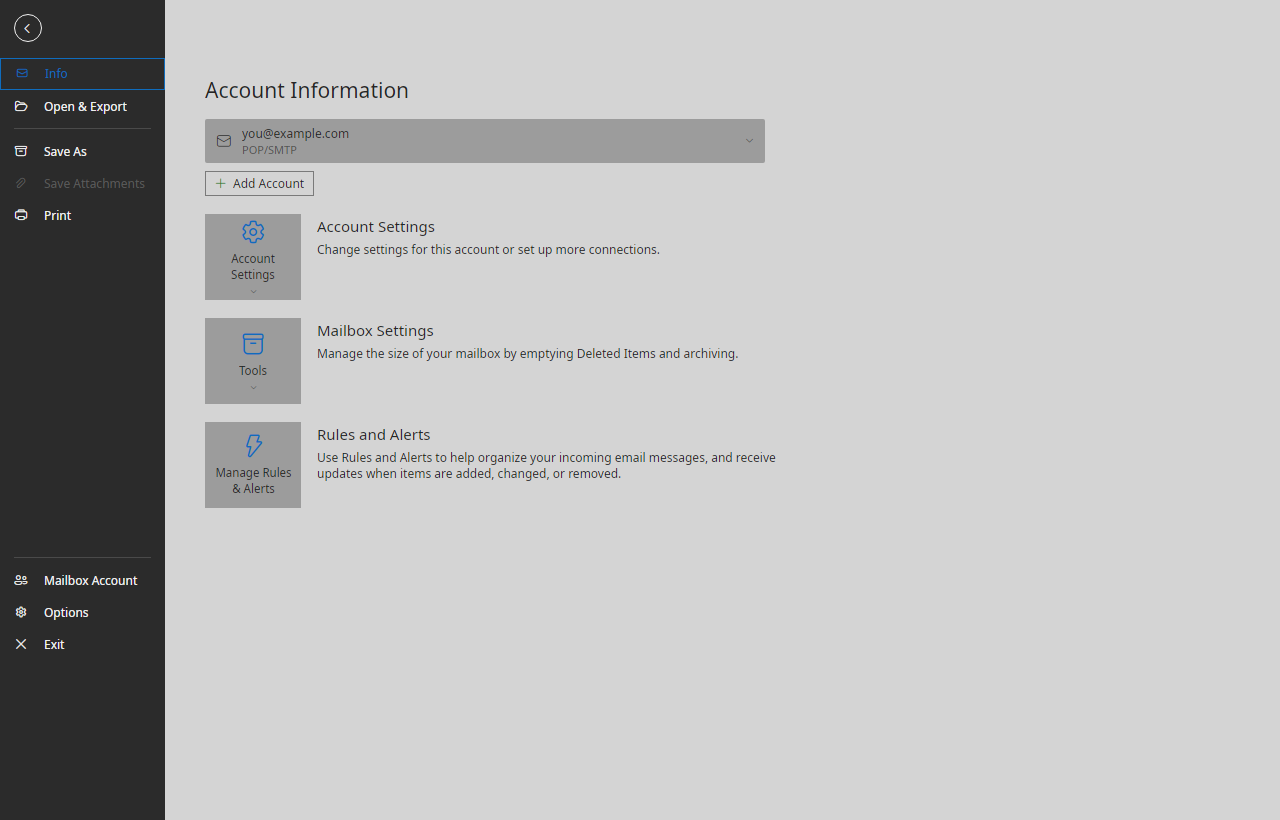
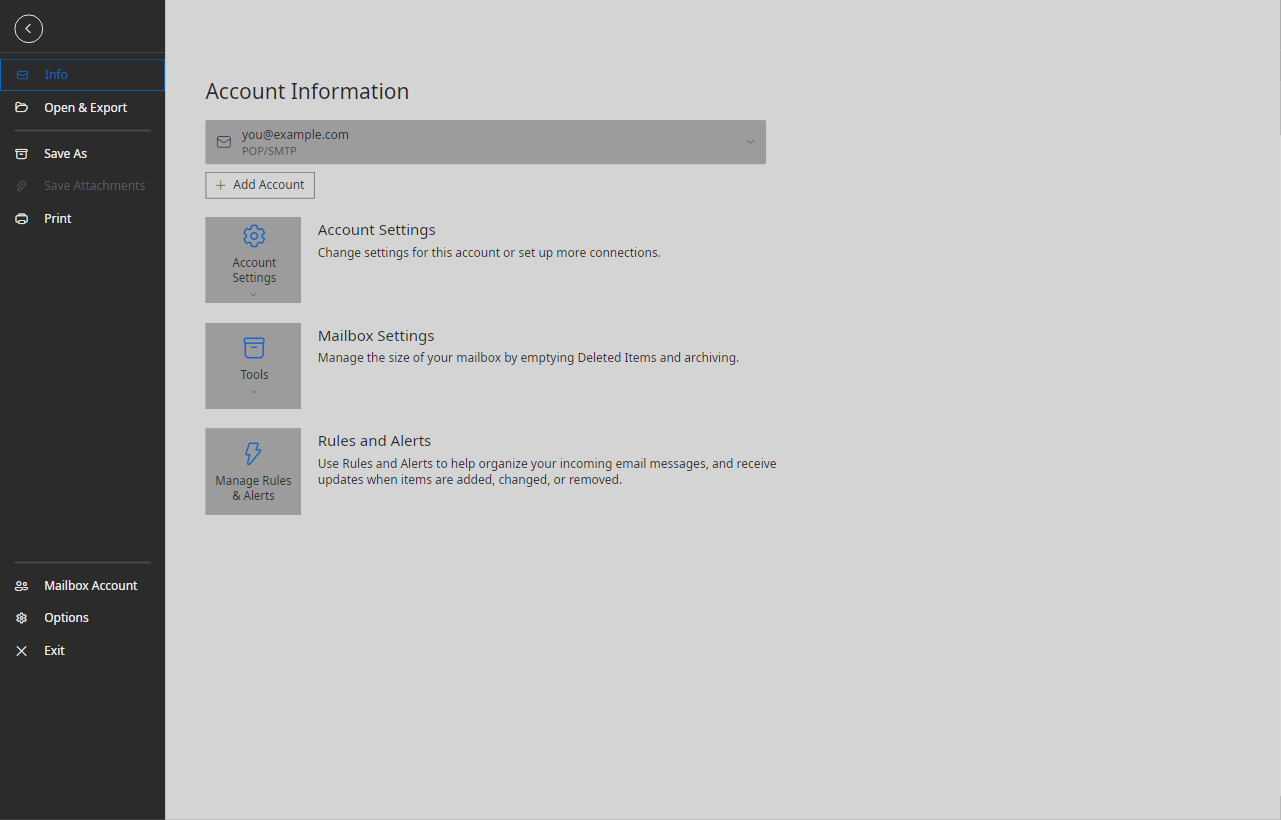
Separate the chrome into panels, and make the close hover reachable
The workspace read as one continuous block. It is two rounded surfaces
on the chrome: the ribbon, then a 6px gap the ribbon casts a tight
shadow into, then the content area, both with 8px corners and both held
the same distance off the window's right edge. The content area is
square where it meets the status bar, which is what the capture shows.

The close button
Its hover colour has been correct in the stylesheet since it was first
written and has never once been drawn, because the constructor assigned
Background as a local value and a local value cannot be overridden by a
style. Removing it lets the style apply. The glyph had the same problem
through a brush bound straight onto the shape; it now follows the
button's Foreground, so it turns white against the red.

Nothing exercised that state, which is how it survived two reports.
MAILBOX_HOVER=close forces the pseudo-class so a capture can prove it.

Also thins the rail's selection indicator.

diff --git a/src/Mailbox.App/Views/CaptionButtons.cs b/src/Mailbox.App/Views/CaptionButtons.cs
@@ -1,8 +1,8 @@
 using Avalonia;
 using Avalonia.Controls;
 using Avalonia.Controls.Shapes;
+using Avalonia.Data;
 using Avalonia.Layout;
-using Avalonia.Markup.Xaml.MarkupExtensions;
 using Avalonia.Media;
 
 namespace Mailbox.App.Views;
@@ -31,6 +31,21 @@ public sealed class CaptionButtons : StackPanel
 
     private readonly Window _window;
     private readonly Button _maximize;
+
+    /// <summary>
+    /// Forces a caption button into its hover state so the fidelity harness can photograph it.
+    /// A screenshot cannot move the pointer, and the close button's red is the one caption
+    /// colour that only exists on hover — it went unverified, and wrong, for two sessions.
+    /// </summary>
+    public void ForceHover(string which)
+    {
+        var cls = which == "close" ? "caption-close" : "caption";
+        foreach (var button in Children.OfType<Button>().Where(b => b.Classes.Contains(cls)))
+        {
+            ((IPseudoClasses)button.Classes).Add(":pointerover");
+            if (which != "close") break;
+        }
+    }
 
     public CaptionButtons(Window window)
     {
@@ -74,7 +89,6 @@ public sealed class CaptionButtons : StackPanel
             Padding = default,
             BorderThickness = default,
             CornerRadius = default,
-            Background = Brushes.Transparent,
             HorizontalContentAlignment = HorizontalAlignment.Center,
             VerticalContentAlignment = VerticalAlignment.Center,
             Classes = { isClose ? "caption-close" : "caption" },
@@ -175,9 +189,21 @@ public sealed class CaptionButtons : StackPanel
         Children = { content },
     };
 
-    private static void BindFill(Shape shape)
-        => shape[!Shape.FillProperty] = new DynamicResourceExtension("titlebar.foreground.brush");
+    /// <summary>
+    /// Glyphs follow their button's <see cref="TemplatedControl.Foreground"/> rather than
+    /// binding a brush of their own. A brush set on the shape is a local value, and a local
+    /// value cannot be overridden by a style — which is what silently defeated the close
+    /// button's white-on-red hover.
+    /// </summary>
+    private static Binding FromButton() => new Binding(nameof(Button.Foreground))
+    {
+        RelativeSource = new RelativeSource(RelativeSourceMode.FindAncestor)
+        {
+            AncestorType = typeof(Button),
+        },
+    };
 
-    private static void BindStroke(Shape shape)
-        => shape[!Shape.StrokeProperty] = new DynamicResourceExtension("titlebar.foreground.brush");
+    private static void BindFill(Shape shape) => shape[!Shape.FillProperty] = FromButton();
+
+    private static void BindStroke(Shape shape) => shape[!Shape.StrokeProperty] = FromButton();
 }

diff --git a/src/Mailbox.Controls.Ribbon/RibbonView.cs b/src/Mailbox.Controls.Ribbon/RibbonView.cs
@@ -278,8 +278,8 @@ public sealed class RibbonView : ContentControl
             Padding = new Thickness(6, 0),
             Child = grid,
             CornerRadius = new CornerRadius(RibbonMetrics.BodyCornerRadius),
-            Margin = new Thickness(0, 0, RibbonMetrics.BodyRightInset, 0),
-            ClipToBounds = true,
+            BoxShadow = BoxShadows.Parse("0 1 3 0 #94000000"),
+            Margin = new Thickness(0, 0, RibbonMetrics.BodyRightInset, RibbonMetrics.BodyBottomGap),
         };
         Bind(host, Border.BackgroundProperty, "ribbon.background.brush");
         return host;
@@ -455,8 +455,8 @@ public sealed class RibbonView : ContentControl
             Height = RibbonMetrics.BodyHeight,
             Child = scroller,
             CornerRadius = new CornerRadius(RibbonMetrics.BodyCornerRadius),
-            Margin = new Thickness(0, 0, RibbonMetrics.BodyRightInset, 0),
-            ClipToBounds = true,
+            BoxShadow = BoxShadows.Parse("0 1 3 0 #94000000"),
+            Margin = new Thickness(0, 0, RibbonMetrics.BodyRightInset, RibbonMetrics.BodyBottomGap),
         };
         Bind(host, Border.BackgroundProperty, "ribbon.background.brush");
         return host;

diff --git a/src/Mailbox.Theming/Tokens/TokenKeys.cs b/src/Mailbox.Theming/Tokens/TokenKeys.cs
@@ -111,6 +111,12 @@ public static class TokenKeys
         public const string IndicatorInset = "rail.indicator.inset";
     }
 
+    /// <summary>The workspace below the ribbon: its own rounded surface on the chrome.</summary>
+    public static class Workspace
+    {
+        public const string Inset = "workspace.inset";
+    }
+
     public static class Nav
     {
         public const string Background = "nav.background";
@@ -202,6 +208,7 @@ public static class TokenKeys
         Ribbon.Background, Ribbon.TabStripBackground, Ribbon.TabRest, Ribbon.TabHover,
         Ribbon.TabSelected, Ribbon.TabUnderline, Ribbon.TabText, Ribbon.TabTextSelected, Ribbon.GroupLabel,
         Ribbon.GroupSeparator, Ribbon.Height, Ribbon.TabStripHeight,
+        Workspace.Inset,
         Nav.Background, Nav.ItemText, Nav.ItemHover, Nav.ItemSelected, Nav.UnreadCount, Nav.Width,
         List.Background, List.RowBackground, List.HeaderBackground, List.HeaderText,
         List.RowHeight, List.RowHeightCompact, List.RowHover, List.RowSelected,

diff --git a/src/Mailbox.Theming/Themes/OfficeThemes.cs b/src/Mailbox.Theming/Themes/OfficeThemes.cs
@@ -93,7 +93,10 @@ public static class OfficeThemes
         t.Set(TokenKeys.TitleBar.SearchOffset, "294");
         t.Set(TokenKeys.Rail.Width, "57");
         t.Set(TokenKeys.Rail.ItemHeight, "48");
-        t.Set(TokenKeys.Rail.IndicatorWidth, "2");
+        // The ribbon and the workspace are held the same distance off the window's right edge,
+        // which is what makes them read as a stack of separate panels rather than one block.
+        t.Set(TokenKeys.Workspace.Inset, "9");
+        t.Set(TokenKeys.Rail.IndicatorWidth, "1.5");
         t.Set(TokenKeys.Rail.IndicatorHeight, "32");
         t.Set(TokenKeys.Rail.IndicatorInset, "6");
         t.Set(TokenKeys.List.Width, "436");

diff --git a/src/Mailbox.App/Views/MainWindow.axaml.cs b/src/Mailbox.App/Views/MainWindow.axaml.cs
@@ -180,7 +180,13 @@ public partial class MainWindow : Window
     /// </summary>
     private void SetUpTitleBar()
     {
-        this.FindControl<ContentControl>("CaptionHost")!.Content = new CaptionButtons(this);
+        var caption = new CaptionButtons(this);
+        this.FindControl<ContentControl>("CaptionHost")!.Content = caption;
+
+        if (Environment.GetEnvironmentVariable("MAILBOX_HOVER") is { Length: > 0 } hovered)
+        {
+            Opened += (_, _) => caption.ForceHover(hovered.ToLowerInvariant());
+        }
 
         if (this.FindControl<Control>("TitleBar") is not { } bar) return;
 

diff --git a/src/Mailbox.Controls.Ribbon/RibbonMetrics.cs b/src/Mailbox.Controls.Ribbon/RibbonMetrics.cs
@@ -26,6 +26,12 @@ public static class RibbonMetrics
     /// <summary>Clearance between the ribbon panel and the window's right edge.</summary>
     public const double BodyRightInset = 9;
 
+    /// <summary>
+    /// Gap between the ribbon panel and the content panel below it. The two are separate
+    /// rounded surfaces on the chrome, not one continuous block.
+    /// </summary>
+    public const double BodyBottomGap = 6;
+
     public const double SimplifiedButtonHeight = 30;
     public const double SimplifiedIconSize = 18;
 

diff --git a/src/Mailbox.App/Theming/ThemeResourceBridge.cs b/src/Mailbox.App/Theming/ThemeResourceBridge.cs
@@ -58,6 +58,7 @@ public sealed class ThemeResourceBridge
                 // A one-sided margin. Offsets measured from a single edge are common in the
                 // chrome, and the uniform .thickness above would inset all four sides.
                 _target[key + ".leftmargin"] = new Thickness(number, 0, 0, 0);
+                _target[key + ".rightmargin"] = new Thickness(0, 0, number, 0);
             }
         }
 
